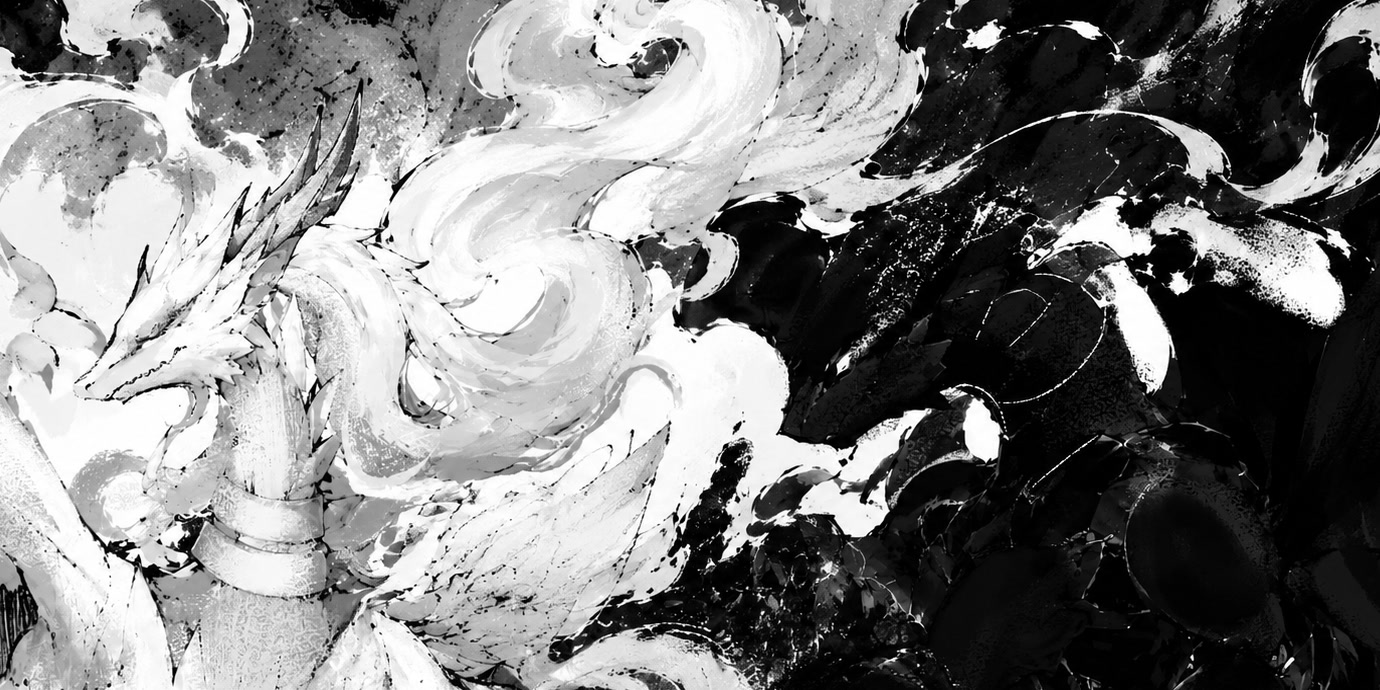
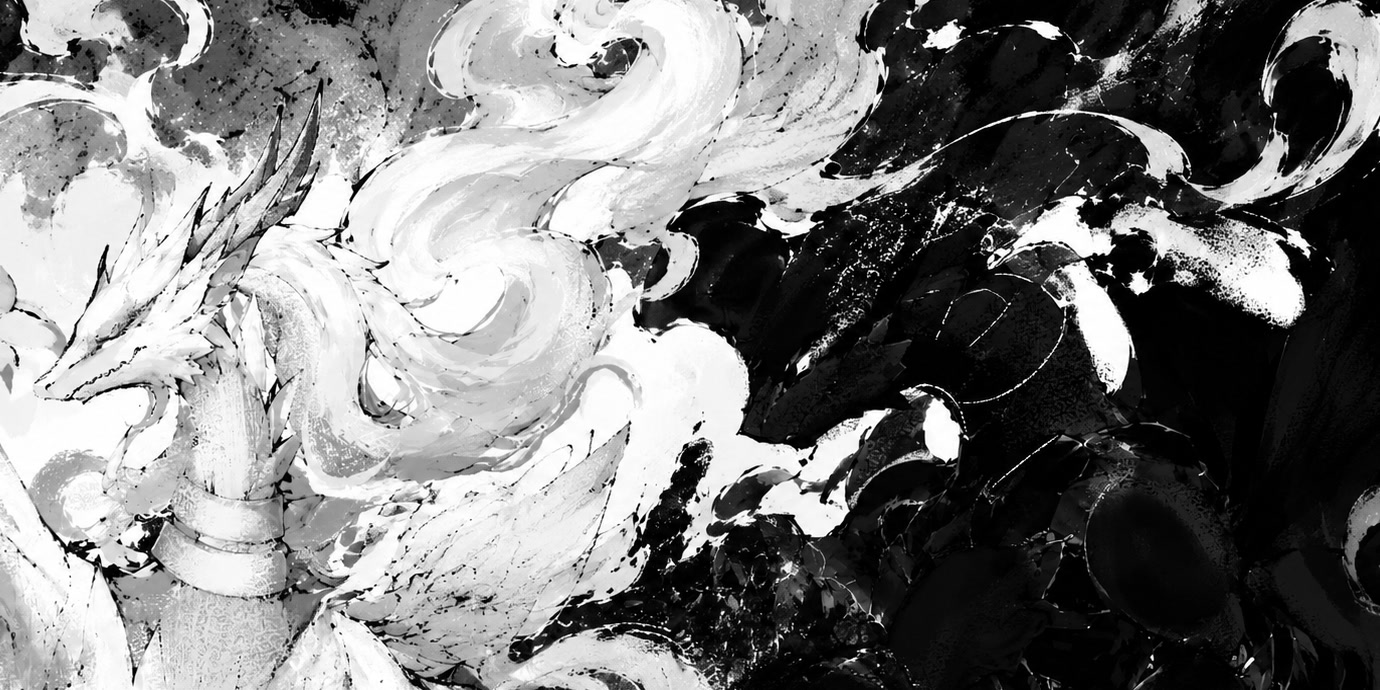
Shift the hero crop and tweak the index and links copy

diff --git a/index.html b/index.html
@@ -73,7 +73,7 @@
 				Above depict <em class="dex" data-dex="reshiram">Reshiram</em> and
 				<em class="dex" data-dex="zekrom">Zekrom</em>, the legendary dragons from Pokémon Black &amp; White. I grew up
 				playing the game, and I wanted to make an adventure similar to it myself. That got me into computer
-				science in elementary school, where I made my
+				science in elementary, where I made my
 				<a href="https://scratch.mit.edu/projects/263657747" data-embed="first-game" target="_blank" rel="noopener">first game</a> with Scratch. In high school, I moved to
 				JavaScript and made browser games and a
 				<a href="/work/" data-demo="reccify">music discovery app</a>. University is where I started exploring engines like Godot and

diff --git a/links/index.html b/links/index.html
@@ -40,7 +40,7 @@
 	<main class="page">
 		<section class="prose">
 			<p>
-				I've provided my email, socials, and résumé below. Feel free to reach out if you share similar
+				I've provided my email, profiles, and résumé below. Feel free to reach out if you share similar
 				interests or want to work together.
 			</p>
 		</section>
